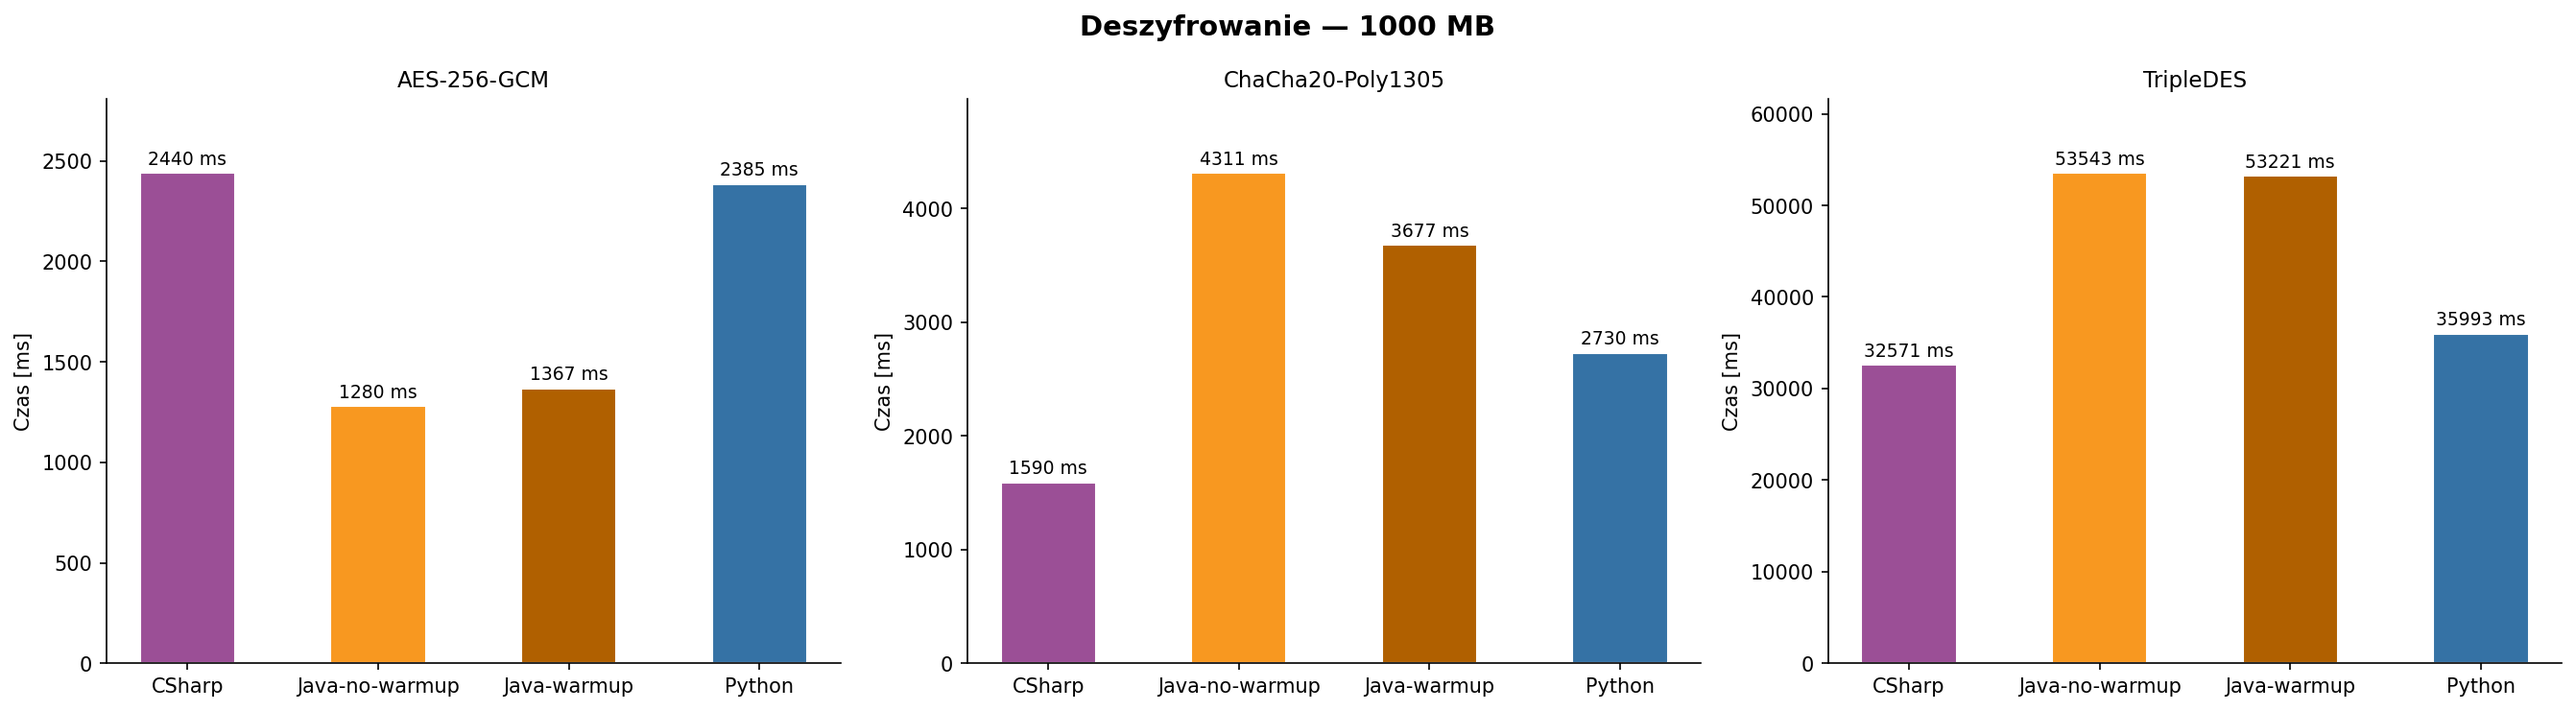
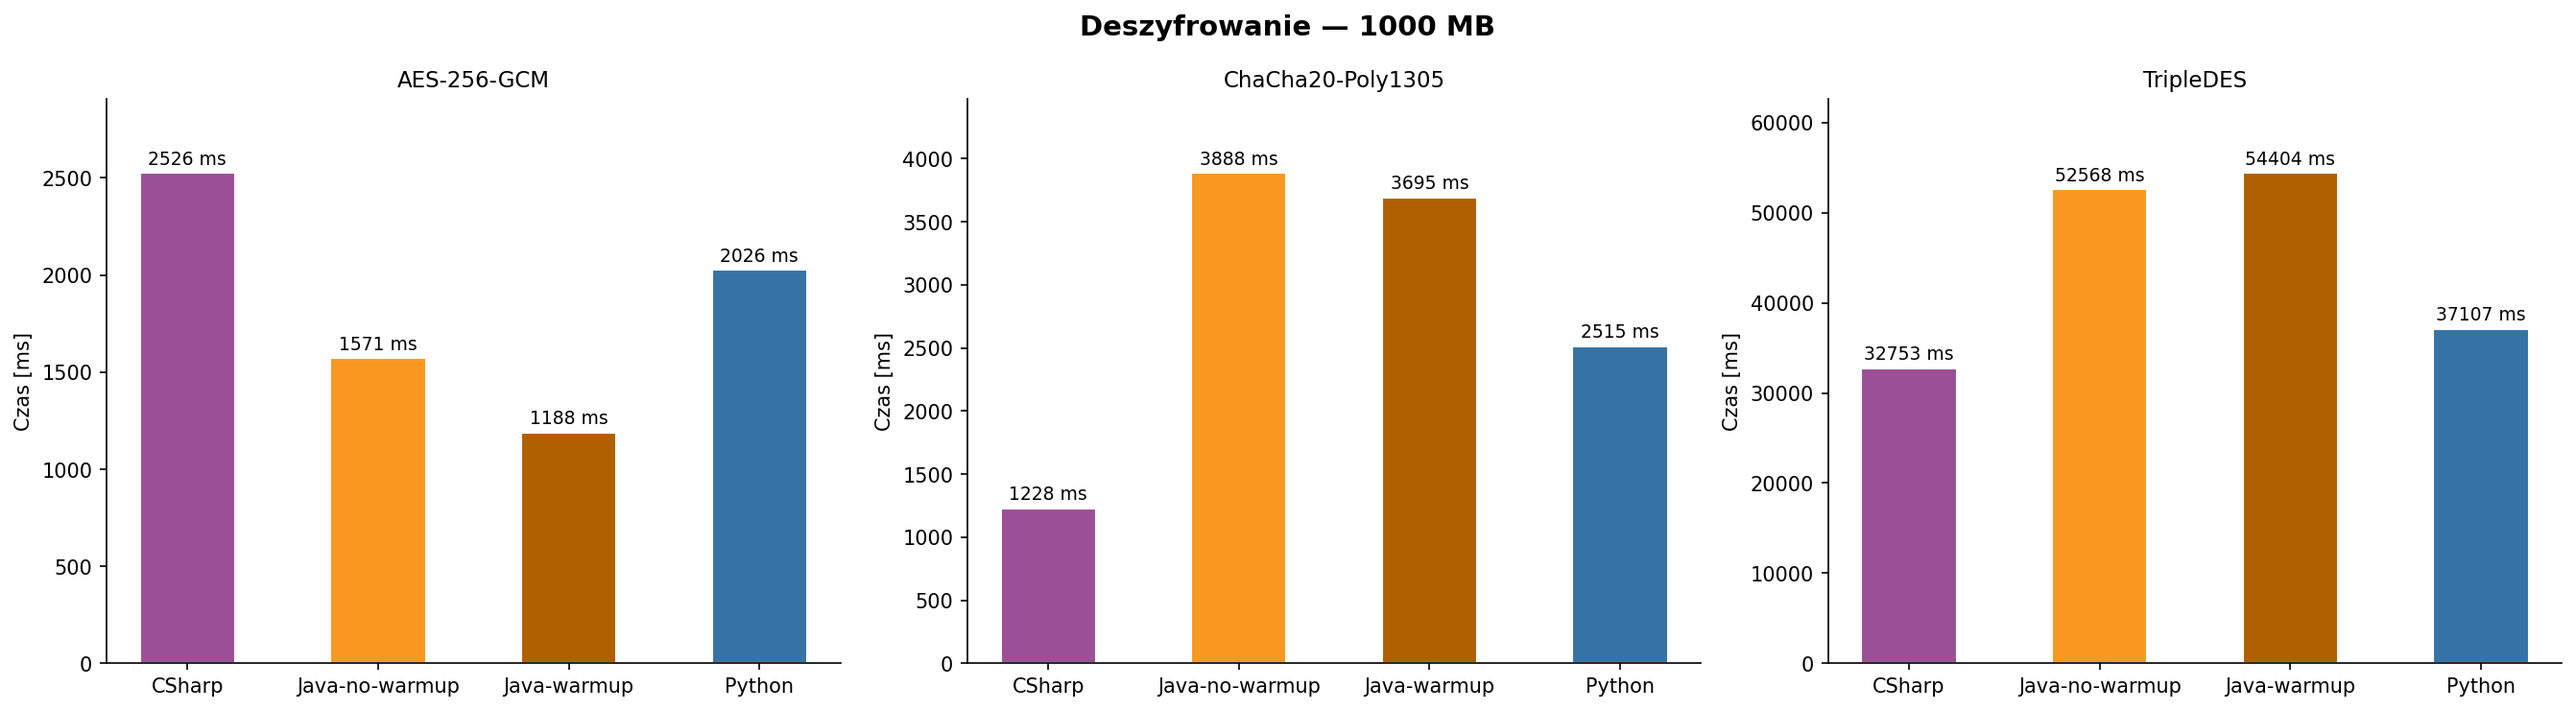
feat: added triple des cipher

diff --git a/java/src/CryptoBenchmark.java b/java/src/CryptoBenchmark.java
@@ -11,9 +11,10 @@ public class CryptoBenchmark {
             "TEST_FILES_DIR", "/test-files");
 
     private static final int[] FILE_SIZES_MB = {10, 100, 1000};
-    private static final int   RUNS          = 3;
+    private static final int   RUNS          = 15;
 
     public static void main(String[] args) throws Exception {
+        // === WARMUP START ===
         System.out.println("Warming up JVM (10,000 iterations)...");
         byte[] dummy = new byte[1024]; // 1KB for speed
         CipherStrategy warmupGcm = new AesGcmCipher();
@@ -33,6 +34,7 @@ public class CryptoBenchmark {
         dummy = null;
         System.gc();
         System.out.println("Warmup complete. Starting benchmarks.");
+        // === WARMUP END ===
 
         for (int sizeMb : FILE_SIZES_MB) {
             Path testFile = Paths.get(TEST_FILES_DIR, "test_" + sizeMb + "mb.bin");
@@ -82,7 +84,7 @@ public class CryptoBenchmark {
             if (!Arrays.equals(original, decrypted)) integrity = false;
         }
 
-        appendCsvRow("Java", algorithm, sizeMb,
+        appendCsvRow("Java-warmup", algorithm, sizeMb,
                 median(encMs), median(decMs), median(ramMb), integrity);
 
         System.out.printf("  encrypt=%d ms  decrypt=%d ms  ram=%d MB  ok=%b%n",

diff --git a/csharp/Program.cs b/csharp/Program.cs
@@ -8,7 +8,7 @@ string resultsFile  = Environment.GetEnvironmentVariable("RESULTS_FILE")  ?? "/r
 string testFilesDir = Environment.GetEnvironmentVariable("TEST_FILES_DIR") ?? "/test-files";
 
 int[] sizes = { 10, 100, 1000 };
-const int Runs = 3;
+const int Runs = 15;
 
 foreach (int sizeMb in sizes)
 {

diff --git a/python/benchmark.py b/python/benchmark.py
@@ -12,7 +12,7 @@ RESULTS_FILE   = os.environ.get("RESULTS_FILE",   "/results/benchmark_results.cs
 TEST_FILES_DIR = os.environ.get("TEST_FILES_DIR", "/test-files")
 
 FILE_SIZES_MB = [10, 100, 1000]
-RUNS = 3
+RUNS = 15
 
 # -------------------------------------------------------------------------
 
